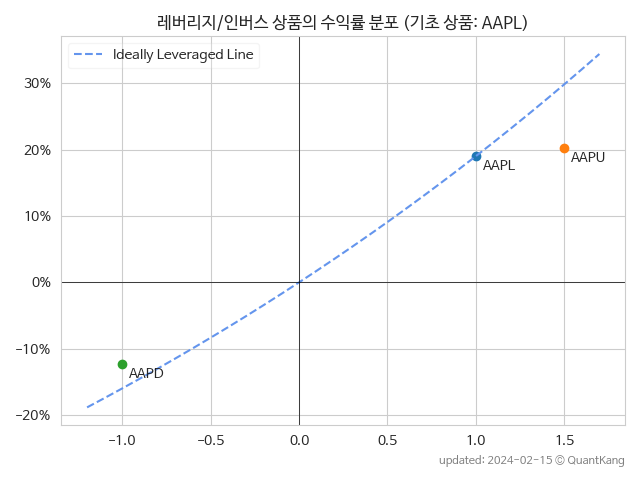
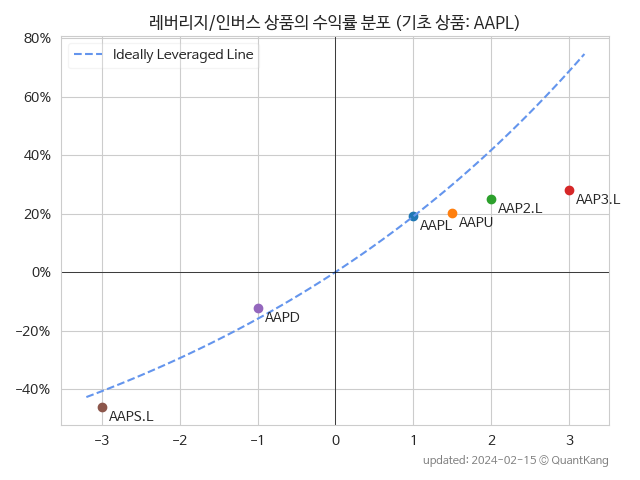
add AAPL levs

diff --git a/_posts/lev/2024-02-15-aaps.md b/_posts/lev/2024-02-15-aaps.md
@@ -1,0 +1,70 @@
+---
+layout: single
+title: AAPS.L 수익률과 비용 (AAPL -3x)
+excerpt: AAPS.L의 1년 수익률은 -46.2%, 추정 비용은 9.3%입니다.
+header:
+  overlay_color: "#333"
+  show_overlay_excerpt: false
+toc: true
+categories:
+- 인버스 레버리지
+---
+
+## 비교 상품 소개
+
+
+AAPL 상품의 일일 수익률을 -3배로 추종하는 AAPS.L 상품의 최근 1년 성과를 살펴봅니다.
+
+
+
+
+
+| **종목** | **1년** | **편차** | **샤프** | **MDD** | **AvDD** |
+| :------------ | ------: | -----------: | -------: | ------: | -------: |
+| AAPS.L | <span style="color: cornflowerblue">-46.2<small>%</small></span> | 62.0<small>%</small> | -0.75 | -65.3<small>%</small> | -47.8<small>%</small> |
+
+<!-- more -->
+
+
+![AAPS.L](/lev/images/aaps.png){: .align-center}
+
+
+## 주요 가격 변동 지표<small>[^fn_price_metric]</small>
+
+
+| **종목** | **1년** | **편차** | **샤프** | **MDD** | **AvDD** |
+| :------------ | ------: | -----------: | -------: | ------: | -------: |
+| AAPL | <span style="color: tomato">19.0<small>%</small></span> | 19.7<small>%</small> | 0.97 | -14.9<small>%</small> | -4.2<small>%</small> |
+| Ideal<small>[^fn_lev_ideal]</small> | <span style="color: cornflowerblue">-40.7<small>%</small></span> | 59.2<small>%</small> | -0.69 | -61.0<small>%</small> | -43.9<small>%</small> |
+| I. daily<small>[^fn_lev_ideal_daily]</small> | <span style="color: cornflowerblue">-52.9<small>%</small></span> | 59.1<small>%</small> | -0.90 | -67.7<small>%</small> | -49.2<small>%</small> |
+| AAPS.L | <span style="color: cornflowerblue">-46.2<small>%</small></span> | 62.0<small>%</small> | -0.75 | -65.3<small>%</small> | -47.8<small>%</small> |
+
+
+## 추정 비용<small>[^fn_lev_expense]</small><a id="expense"></a>
+
+AAPS.L 상품을 AAPL 상품의 -3배 레버리지라 가정하고 분석한 결과입니다.
+
+![AAPS.L](/lev/images/aaps_ideal.png){: .align-center}
+
+| **종목** | **변동성비용**[^fn_lev_vd_expense] | **금융비용**[^fn_lev_fn_expense] | **전체비용**[^fn_lev_tt_expense] |
+| :------------ | ------: | -----------: | -------: |
+| AAPS.L | 20.6<small>%</small> | -14.1<small>%</small> | 9.3<small>%</small> |
+
+{% include /commons/ads/adsense.html %}
+
+
+
+## 관련 레버리지/인버스 상품의 수익률 분포
+
+AAPL 상품을 기초로 하는 타 레버리지/인버스 상품과 비교합니다.
+
+![AAPL](/lev/images/aapl_ideal.png){: .align-center}
+
+{% include lev/aapl_md.inc %}
+
+
+## 관련 정보
+
+- [레버리지/인버스 목록](/lev/){: .btn .btn--info}
+
+{% include commons/footnotes.md %}

diff --git a/_posts/lev/2024-02-15-aap3.md b/_posts/lev/2024-02-15-aap3.md
@@ -1,0 +1,70 @@
+---
+layout: single
+title: AAP3.L 수익률과 비용 (AAPL 3x)
+excerpt: AAP3.L의 1년 수익률은 28.1%, 추정 비용은 24.0%입니다.
+header:
+  overlay_color: "#333"
+  show_overlay_excerpt: false
+toc: true
+categories:
+- 레버리지
+---
+
+## 비교 상품 소개
+
+
+AAPL 상품의 일일 수익률을 3배로 추종하는 AAP3.L 상품의 최근 1년 성과를 살펴봅니다.
+
+
+
+
+
+| **종목** | **1년** | **편차** | **샤프** | **MDD** | **AvDD** |
+| :------------ | ------: | -----------: | -------: | ------: | -------: |
+| AAP3.L | <span style="color: tomato">28.1<small>%</small></span> | 62.0<small>%</small> | 0.45 | -42.9<small>%</small> | -15.0<small>%</small> |
+
+<!-- more -->
+
+
+![AAP3.L](/lev/images/aap3.png){: .align-center}
+
+
+## 주요 가격 변동 지표<small>[^fn_price_metric]</small>
+
+
+| **종목** | **1년** | **편차** | **샤프** | **MDD** | **AvDD** |
+| :------------ | ------: | -----------: | -------: | ------: | -------: |
+| AAPL | <span style="color: tomato">19.0<small>%</small></span> | 19.7<small>%</small> | 0.97 | -14.9<small>%</small> | -4.2<small>%</small> |
+| Ideal<small>[^fn_lev_ideal]</small> | <span style="color: tomato">68.6<small>%</small></span> | 59.2<small>%</small> | 1.16 | -38.4<small>%</small> | -11.7<small>%</small> |
+| I. daily<small>[^fn_lev_ideal_daily]</small> | <span style="color: tomato">50.3<small>%</small></span> | 59.1<small>%</small> | 0.85 | -40.8<small>%</small> | -13.1<small>%</small> |
+| AAP3.L | <span style="color: tomato">28.1<small>%</small></span> | 62.0<small>%</small> | 0.45 | -42.9<small>%</small> | -15.0<small>%</small> |
+
+
+## 추정 비용<small>[^fn_lev_expense]</small><a id="expense"></a>
+
+AAP3.L 상품을 AAPL 상품의 3배 레버리지라 가정하고 분석한 결과입니다.
+
+![AAP3.L](/lev/images/aap3_ideal.png){: .align-center}
+
+| **종목** | **변동성비용**[^fn_lev_vd_expense] | **금융비용**[^fn_lev_fn_expense] | **전체비용**[^fn_lev_tt_expense] |
+| :------------ | ------: | -----------: | -------: |
+| AAP3.L | 10.8<small>%</small> | 14.8<small>%</small> | 24.0<small>%</small> |
+
+{% include /commons/ads/adsense.html %}
+
+
+
+## 관련 레버리지/인버스 상품의 수익률 분포
+
+AAPL 상품을 기초로 하는 타 레버리지/인버스 상품과 비교합니다.
+
+![AAPL](/lev/images/aapl_ideal.png){: .align-center}
+
+{% include lev/aapl_md.inc %}
+
+
+## 관련 정보
+
+- [레버리지/인버스 목록](/lev/){: .btn .btn--info}
+
+{% include commons/footnotes.md %}

diff --git a/_posts/lev/2024-02-15-aap2.md b/_posts/lev/2024-02-15-aap2.md
@@ -1,0 +1,70 @@
+---
+layout: single
+title: AAP2.L 수익률과 비용 (AAPL 2x)
+excerpt: AAP2.L의 1년 수익률은 25.0%, 추정 비용은 11.7%입니다.
+header:
+  overlay_color: "#333"
+  show_overlay_excerpt: false
+toc: true
+categories:
+- 레버리지
+---
+
+## 비교 상품 소개
+
+
+AAPL 상품의 일일 수익률을 2배로 추종하는 AAP2.L 상품의 최근 1년 성과를 살펴봅니다.
+
+
+
+
+
+| **종목** | **1년** | **편차** | **샤프** | **MDD** | **AvDD** |
+| :------------ | ------: | -----------: | -------: | ------: | -------: |
+| AAP2.L | <span style="color: tomato">25.0<small>%</small></span> | 41.3<small>%</small> | 0.61 | -29.7<small>%</small> | -9.4<small>%</small> |
+
+<!-- more -->
+
+
+![AAP2.L](/lev/images/aap2.png){: .align-center}
+
+
+## 주요 가격 변동 지표<small>[^fn_price_metric]</small>
+
+
+| **종목** | **1년** | **편차** | **샤프** | **MDD** | **AvDD** |
+| :------------ | ------: | -----------: | -------: | ------: | -------: |
+| AAPL | <span style="color: tomato">19.0<small>%</small></span> | 19.7<small>%</small> | 0.97 | -14.9<small>%</small> | -4.2<small>%</small> |
+| Ideal<small>[^fn_lev_ideal]</small> | <span style="color: tomato">41.6<small>%</small></span> | 39.4<small>%</small> | 1.06 | -27.6<small>%</small> | -8.1<small>%</small> |
+| I. daily<small>[^fn_lev_ideal_daily]</small> | <span style="color: tomato">36.3<small>%</small></span> | 39.4<small>%</small> | 0.92 | -28.6<small>%</small> | -8.5<small>%</small> |
+| AAP2.L | <span style="color: tomato">25.0<small>%</small></span> | 41.3<small>%</small> | 0.61 | -29.7<small>%</small> | -9.4<small>%</small> |
+
+
+## 추정 비용<small>[^fn_lev_expense]</small><a id="expense"></a>
+
+AAP2.L 상품을 AAPL 상품의 2배 레버리지라 가정하고 분석한 결과입니다.
+
+![AAP2.L](/lev/images/aap2_ideal.png){: .align-center}
+
+| **종목** | **변동성비용**[^fn_lev_vd_expense] | **금융비용**[^fn_lev_fn_expense] | **전체비용**[^fn_lev_tt_expense] |
+| :------------ | ------: | -----------: | -------: |
+| AAP2.L | 3.7<small>%</small> | 8.3<small>%</small> | 11.7<small>%</small> |
+
+{% include /commons/ads/adsense.html %}
+
+
+
+## 관련 레버리지/인버스 상품의 수익률 분포
+
+AAPL 상품을 기초로 하는 타 레버리지/인버스 상품과 비교합니다.
+
+![AAPL](/lev/images/aapl_ideal.png){: .align-center}
+
+{% include lev/aapl_md.inc %}
+
+
+## 관련 정보
+
+- [레버리지/인버스 목록](/lev/){: .btn .btn--info}
+
+{% include commons/footnotes.md %}
